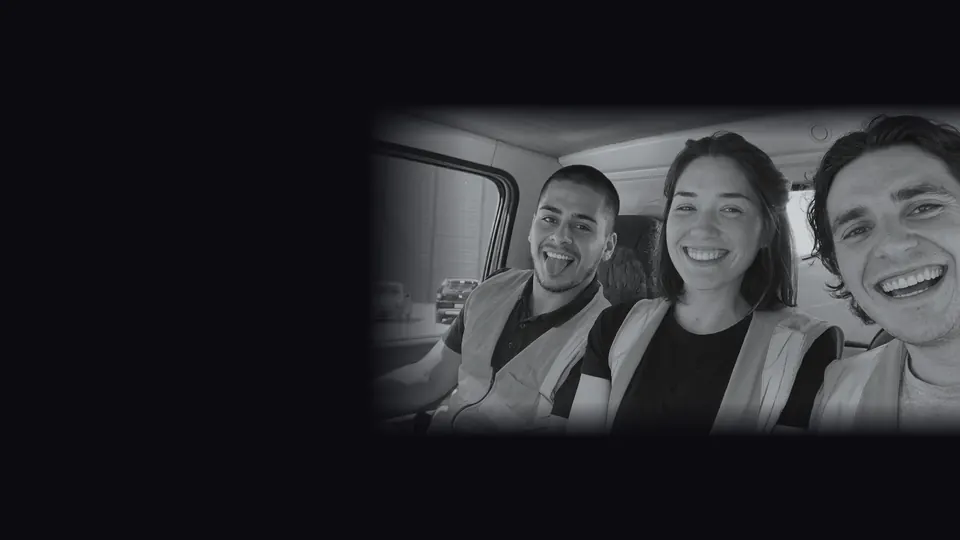
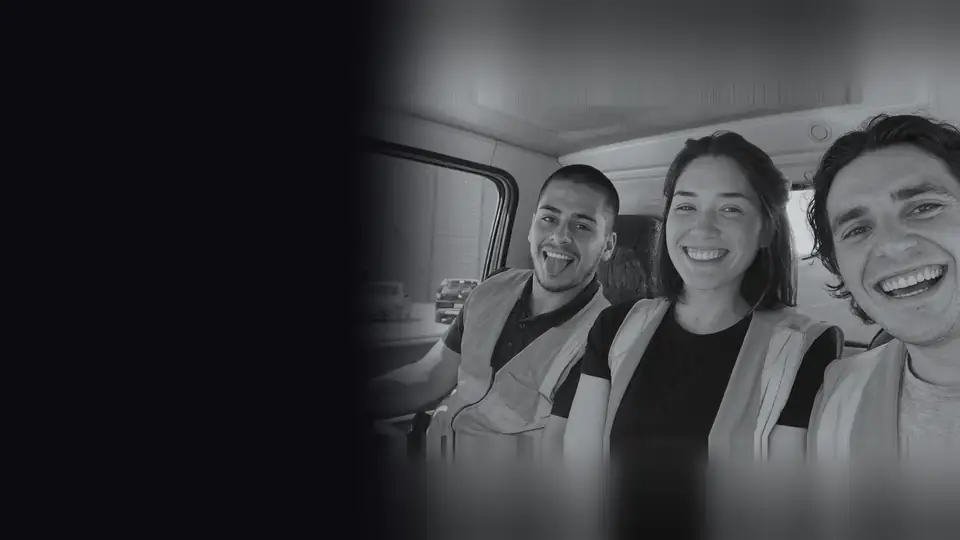
Refine Careers and Contact, add the Who We Are button and fill the team photo

diff --git a/careers.html b/careers.html
@@ -63,6 +63,7 @@ header{position:relative}
 .js .hero-open .hero-fade::before{transform:translateX(100%);transition:transform 1.8s cubic-bezier(.2,.7,.2,1) .1s}
 .js .hero-fade::after{content:"";position:absolute;top:0;bottom:0;left:0;width:calc(100% + 240px);background:linear-gradient(90deg,#0B0B10 calc(100% - 240px),rgba(11,11,16,0) 100%);transform:translateX(var(--ht,-300vw));pointer-events:none}
 }
+@media (max-width:700px){.eb-loc{display:none}}
 </style>
 <script>document.documentElement.classList.add('js')</script>
 </head>
@@ -113,9 +114,9 @@ header{position:relative}
 <picture><source media="(max-width: 899px)" srcset="/hero-tools-mobile-720.webp 720w, /hero-tools-mobile.webp 1200w" sizes="100vw"><img class="hero-img" src="/hero-tools.webp" srcset="/hero-tools-960.webp 960w, /hero-tools.webp 1920w" sizes="100vw" width="1920" height="1080" alt="" fetchpriority="high" decoding="async"></picture>
 <div class="hero-fade" aria-hidden="true"></div>
 <div class="hero-in">
-<p style="margin: 0 0 16px; font-size: 13px; font-weight: 600; letter-spacing: 0.18em; text-transform: uppercase; color: #A78BFA">Careers</p>
-<h1 style="margin: 0; font-family: Oswald, sans-serif; font-size: clamp(38px, 5.4vw, 64px); line-height: 1.08; letter-spacing: 0.02em; font-weight: 400; text-transform: uppercase; text-wrap: balance">Build your career with us.</h1>
-<p style="margin: 24px 0 0; font-size: clamp(17px, 1.9vw, 20px); color: #B4B4C0">We are looking for people with construction experience to join our team.</p>
+<h1 style="margin: 0; font-family: Oswald, sans-serif; font-size: clamp(38px, 5.4vw, 64px); line-height: 1.08; letter-spacing: 0.02em; font-weight: 400; text-transform: uppercase; text-wrap: balance"><span style="display: block; margin: 0 0 16px; font-family: Inter, system-ui, sans-serif; font-size: 13px; line-height: 1.6; font-weight: 600; letter-spacing: 0.18em; color: #A78BFA">Construction jobs<span class="eb-loc"> &middot; British Columbia</span></span>
+Build your career with us.</h1>
+<p style="margin: 24px 0 0; font-size: clamp(17px, 1.9vw, 20px); color: #B4B4C0">Join crews that are planned, supervised and safe, on projects across British&nbsp;Columbia.</p>
 </div>
 </section>
 <script>
@@ -157,12 +158,12 @@ header{position:relative}
 <p style="margin: 0 0 16px; font-size: 13px; font-weight: 600; letter-spacing: 0.18em; text-transform: uppercase; color: #6D28D9">Roles</p>
 <h2 style="margin: 0; max-width: 18em; font-family: Oswald, sans-serif; font-size: clamp(28px, 4vw, 42px); line-height: 1.15; letter-spacing: 0.02em; font-weight: 400; text-transform: uppercase; color: #14141A; text-wrap: balance">Who we hire.</h2>
 <ul style="display: flex; flex-wrap: wrap; gap: 0 32px; margin: 44px 0 0; padding: 0; list-style: none">
-<li style="flex: 1 1 300px; min-width: 0; padding: 22px 0; border-top: 3px solid #14141A; font-family: Oswald, sans-serif; font-size: 22px; line-height: 1.15; letter-spacing: 0.02em; text-transform: uppercase; color: #14141A">Forming carpenters</li>
-<li style="flex: 1 1 300px; min-width: 0; padding: 22px 0; border-top: 3px solid #14141A; font-family: Oswald, sans-serif; font-size: 22px; line-height: 1.15; letter-spacing: 0.02em; text-transform: uppercase; color: #14141A">Concrete finishers</li>
-<li style="flex: 1 1 300px; min-width: 0; padding: 22px 0; border-top: 3px solid #14141A; font-family: Oswald, sans-serif; font-size: 22px; line-height: 1.15; letter-spacing: 0.02em; text-transform: uppercase; color: #14141A">Steel stud framers</li>
-<li style="flex: 1 1 300px; min-width: 0; padding: 22px 0; border-top: 3px solid #14141A; font-family: Oswald, sans-serif; font-size: 22px; line-height: 1.15; letter-spacing: 0.02em; text-transform: uppercase; color: #14141A">Drywallers</li>
-<li style="flex: 1 1 300px; min-width: 0; padding: 22px 0; border-top: 3px solid #14141A; font-family: Oswald, sans-serif; font-size: 22px; line-height: 1.15; letter-spacing: 0.02em; text-transform: uppercase; color: #14141A">Painters</li>
-<li style="flex: 1 1 300px; min-width: 0; padding: 22px 0; border-top: 3px solid #14141A; font-family: Oswald, sans-serif; font-size: 22px; line-height: 1.15; letter-spacing: 0.02em; text-transform: uppercase; color: #14141A">Labourers</li>
+<li style="flex: 1 1 300px; min-width: 0; padding: 22px 0; border-top: 3px solid #14141A; font-family: Oswald, sans-serif; font-size: 22px; line-height: 1.15; letter-spacing: 0.02em; text-transform: uppercase; color: #14141A">Forming carpenters<span style="display: block; margin-top: 8px; font-family: Inter, system-ui, sans-serif; font-size: 16px; line-height: 1.55; letter-spacing: 0; text-transform: none; color: #4B4B57">Wall, column and slab forms, from layout to&nbsp;stripping.</span></li>
+<li style="flex: 1 1 300px; min-width: 0; padding: 22px 0; border-top: 3px solid #14141A; font-family: Oswald, sans-serif; font-size: 22px; line-height: 1.15; letter-spacing: 0.02em; text-transform: uppercase; color: #14141A">Concrete finishers<span style="display: block; margin-top: 8px; font-family: Inter, system-ui, sans-serif; font-size: 16px; line-height: 1.55; letter-spacing: 0; text-transform: none; color: #4B4B57">Placing, screeding and trowelling&nbsp;slabs.</span></li>
+<li style="flex: 1 1 300px; min-width: 0; padding: 22px 0; border-top: 3px solid #14141A; font-family: Oswald, sans-serif; font-size: 22px; line-height: 1.15; letter-spacing: 0.02em; text-transform: uppercase; color: #14141A">Steel stud framers<span style="display: block; margin-top: 8px; font-family: Inter, system-ui, sans-serif; font-size: 16px; line-height: 1.55; letter-spacing: 0; text-transform: none; color: #4B4B57">Steel stud walls, bulkheads and ceilings, laid out to the&nbsp;drawings.</span></li>
+<li style="flex: 1 1 300px; min-width: 0; padding: 22px 0; border-top: 3px solid #14141A; font-family: Oswald, sans-serif; font-size: 22px; line-height: 1.15; letter-spacing: 0.02em; text-transform: uppercase; color: #14141A">Drywallers<span style="display: block; margin-top: 8px; font-family: Inter, system-ui, sans-serif; font-size: 16px; line-height: 1.55; letter-spacing: 0; text-transform: none; color: #4B4B57">Board, tape and finish, ready for&nbsp;paint.</span></li>
+<li style="flex: 1 1 300px; min-width: 0; padding: 22px 0; border-top: 3px solid #14141A; font-family: Oswald, sans-serif; font-size: 22px; line-height: 1.15; letter-spacing: 0.02em; text-transform: uppercase; color: #14141A">Painters<span style="display: block; margin-top: 8px; font-family: Inter, system-ui, sans-serif; font-size: 16px; line-height: 1.55; letter-spacing: 0; text-transform: none; color: #4B4B57">Surface prep, primer and finish&nbsp;coats.</span></li>
+<li style="flex: 1 1 300px; min-width: 0; padding: 22px 0; border-top: 3px solid #14141A; font-family: Oswald, sans-serif; font-size: 22px; line-height: 1.15; letter-spacing: 0.02em; text-transform: uppercase; color: #14141A">Labourers<span style="display: block; margin-top: 8px; font-family: Inter, system-ui, sans-serif; font-size: 16px; line-height: 1.55; letter-spacing: 0; text-transform: none; color: #4B4B57">Material handling, cleanup and support for every&nbsp;crew.</span></li>
 </ul>
 </div>
 </section>
@@ -175,17 +176,17 @@ header{position:relative}
 <li style="flex: 1 1 260px; min-width: 0; padding-top: 20px; border-top: 3px solid #14141A">
 <span style="font-family: Oswald, sans-serif; font-size: 15px; font-weight: 500; letter-spacing: 0.08em; color: #6D28D9">01</span>
 <h3 style="margin: 10px 0 0; font-family: Oswald, sans-serif; font-size: 21px; line-height: 1.15; letter-spacing: 0.02em; font-weight: 400; text-transform: uppercase; color: #14141A">Projects across BC</h3>
-<p style="margin: 10px 0 0; font-size: 16px; color: #4B4B57">Work on residential, commercial and <span style="white-space: nowrap">mixed-use</span> projects across British Columbia.</p>
+<p style="margin: 10px 0 0; font-size: 16px; color: #4B4B57">Residential, commercial and <span style="white-space: nowrap">mixed-use</span> projects, from the concrete structure to the&nbsp;finishes.</p>
 </li>
 <li style="flex: 1 1 260px; min-width: 0; padding-top: 20px; border-top: 3px solid #14141A">
 <span style="font-family: Oswald, sans-serif; font-size: 15px; font-weight: 500; letter-spacing: 0.08em; color: #6D28D9">02</span>
 <h3 style="margin: 10px 0 0; font-family: Oswald, sans-serif; font-size: 21px; line-height: 1.15; letter-spacing: 0.02em; font-weight: 400; text-transform: uppercase; color: #14141A">A foreman on every crew</h3>
-<p style="margin: 10px 0 0; font-size: 16px; color: #4B4B57">A foreman leads every crew and runs a toolbox talk before work starts.</p>
+<p style="margin: 10px 0 0; font-size: 16px; color: #4B4B57">Your foreman plans the day with the crew and runs a toolbox talk before work&nbsp;starts.</p>
 </li>
 <li style="flex: 1 1 260px; min-width: 0; padding-top: 20px; border-top: 3px solid #14141A">
 <span style="font-family: Oswald, sans-serif; font-size: 15px; font-weight: 500; letter-spacing: 0.08em; color: #6D28D9">03</span>
 <h3 style="margin: 10px 0 0; font-family: Oswald, sans-serif; font-size: 21px; line-height: 1.15; letter-spacing: 0.02em; font-weight: 400; text-transform: uppercase; color: #14141A">Safety from day one</h3>
-<p style="margin: 10px 0 0; font-size: 16px; color: #4B4B57">You get a site-specific orientation before you start.</p>
+<p style="margin: 10px 0 0; font-size: 16px; color: #4B4B57">A site orientation before your first shift, and the right to stop any task that is&nbsp;unsafe.</p>
 </li>
 </ol>
 </div>
@@ -194,7 +195,7 @@ header{position:relative}
 <section aria-label="How to apply" style="background: #0B0B10; color: #F5F5F7">
 <div style="max-width: 1120px; margin: 0 auto; padding: 96px 24px; box-sizing: border-box">
 <h2 style="margin: 0; font-family: Oswald, sans-serif; font-size: clamp(32px, 5vw, 60px); line-height: 1.08; letter-spacing: 0.02em; font-weight: 400; text-transform: uppercase; text-wrap: balance">How to apply.</h2>
-<p style="margin: 12px 0 0; font-size: 18px; color: #B4B4C0">Send us your application by email: <a href="mailto:contact@sgvdevelopment.ca" style="color: #A78BFA; text-decoration: none">contact@sgvdevelopment.ca</a></p>
+<p style="margin: 12px 0 0; max-width: 40em; font-size: 18px; color: #B4B4C0">Email your resume to <a href="mailto:contact@sgvdevelopment.ca" style="color: #A78BFA; text-decoration: underline; text-decoration-thickness: 1px; text-underline-offset: 3px">contact@sgvdevelopment.ca</a> with the role, your years of experience, the tickets you hold (for example fall protection, WHMIS or first aid) and where in BC you can work.</p>
 </div>
 </section>
 

diff --git a/contact.html b/contact.html
@@ -63,6 +63,7 @@ header{position:relative}
 .js .hero-open .hero-fade::before{transform:translateX(100%);transition:transform 1.8s cubic-bezier(.2,.7,.2,1) .1s}
 .js .hero-fade::after{content:"";position:absolute;top:0;bottom:0;left:0;width:calc(100% + 240px);background:linear-gradient(90deg,#0B0B10 calc(100% - 240px),rgba(11,11,16,0) 100%);transform:translateX(var(--ht,-300vw));pointer-events:none}
 }
+@media (max-width:700px){.eb-loc{display:none}}
 </style>
 <script>document.documentElement.classList.add('js')</script>
 </head>
@@ -113,8 +114,8 @@ header{position:relative}
 <picture><source media="(max-width: 899px)" srcset="/hero-drawings-mobile-720.webp 720w, /hero-drawings-mobile.webp 1200w" sizes="100vw"><img class="hero-img" src="/hero-drawings.webp" srcset="/hero-drawings-960.webp 960w, /hero-drawings.webp 1920w" sizes="100vw" width="1920" height="1080" alt="" fetchpriority="high" decoding="async"></picture>
 <div class="hero-fade" aria-hidden="true"></div>
 <div class="hero-in">
-<p style="margin: 0 0 16px; font-size: 13px; font-weight: 600; letter-spacing: 0.18em; text-transform: uppercase; color: #A78BFA">Contact</p>
-<h1 style="margin: 0; font-family: Oswald, sans-serif; font-size: clamp(38px, 5.4vw, 64px); line-height: 1.08; letter-spacing: 0.02em; font-weight: 400; text-transform: uppercase; text-wrap: balance">Let's build together.</h1>
+<h1 style="margin: 0; font-family: Oswald, sans-serif; font-size: clamp(38px, 5.4vw, 64px); line-height: 1.08; letter-spacing: 0.02em; font-weight: 400; text-transform: uppercase; text-wrap: balance"><span style="display: block; margin: 0 0 16px; font-family: Inter, system-ui, sans-serif; font-size: 13px; line-height: 1.6; font-weight: 600; letter-spacing: 0.18em; color: #A78BFA">Project enquiries<span class="eb-loc"> &middot; British Columbia</span></span>
+Let's build together.</h1>
 <p style="margin: 24px 0 0; font-size: clamp(17px, 1.9vw, 20px); color: #B4B4C0">Send us your project details, drawings and schedule. We will contact you to book a site&nbsp;visit.</p>
 </div>
 </section>
@@ -212,7 +213,7 @@ header{position:relative}
 <ol style="display: flex; flex-direction: column; gap: 16px; margin: 18px 0 0; padding: 0; list-style: none">
 <li style="display: flex; gap: 12px; font-size: 15px; color: #4B4B57">
 <span aria-hidden="true" style="flex: none; display: flex; align-items: center; justify-content: center; width: 28px; height: 28px; border-radius: 50%; background: #14141A; color: #FFFFFF; font-size: 13px; font-weight: 600">1</span>
-<span style="padding-top: 2px">We review your request and your drawings.</span>
+<span style="padding-top: 2px">We review your request and your drawings, and reply within 24 to 48&nbsp;hours.</span>
 </li>
 <li style="display: flex; gap: 12px; font-size: 15px; color: #4B4B57">
 <span aria-hidden="true" style="flex: none; display: flex; align-items: center; justify-content: center; width: 28px; height: 28px; border-radius: 50%; background: #14141A; color: #FFFFFF; font-size: 13px; font-weight: 600">2</span>

diff --git a/who-we-are.html b/who-we-are.html
@@ -80,6 +80,15 @@ main p{text-wrap:pretty}
 @media (max-width:480px){.roles li{grid-template-columns:1fr}}
 .commit-list{display:grid;grid-template-columns:1fr;gap:24px}
 @media (min-width:900px){.commit-list{grid-template-columns:repeat(3,minmax(0,1fr));gap:32px 48px}}
+.btns{display:flex;flex-wrap:wrap;align-items:center;gap:12px 16px;margin-top:36px}
+a.btn-line{display:inline-flex;align-items:center;justify-content:center;gap:10px;min-height:52px;padding:0 26px;box-sizing:border-box;border:1px solid #3A3A46;border-radius:4px;font-size:16px;font-weight:600;color:#D4D4DC;text-decoration:none;transition:background-color .2s ease,border-color .2s ease,color .2s ease}
+a.btn-line svg{transition:transform .2s ease}
+a.btn-line--main{border-color:#A78BFA;color:#A78BFA}
+@media (hover:hover){a.btn-line:hover{border-color:#6B6B78;color:#F5F5F7}a.btn-line--main:hover{background:rgba(167,139,250,.12);border-color:#C4B5FD;color:#C4B5FD}a.btn-line:hover svg{transform:translateX(4px)}}
+a.btn-line:focus-visible{outline:2px solid #A78BFA;outline-offset:3px}
+a.btn-line:focus-visible svg{transform:translateX(4px)}
+@media (prefers-reduced-motion:reduce){a.btn-line,a.btn-line svg{transition:none}}
+@media (max-width:480px){.btns > a{flex:1 1 100%}}
 </style>
 <script>document.documentElement.classList.add('js')</script>
 </head>
@@ -219,9 +228,11 @@ The team behind the build.</h1>
 <p style="margin: 10px 0 0; font-size: 16px; color: #B4B4C0">Lump sum or unit rates. Changes are priced and approved in writing before the work goes ahead.</p>
 </li>
 </ul>
-<a href="/contact.html#enquiry" class="arrow-link" style="display: inline-flex; align-items: center; gap: 10px; min-height: 44px; margin-top: 40px; font-size: 16px; font-weight: 600; color: #A78BFA">Request a site visit
+<div class="btns">
+<a href="/contact.html#enquiry" class="btn-line btn-line--main">Request a site visit
 <svg width="18" height="18" viewBox="0 0 18 18" fill="none" aria-hidden="true" style="flex: none"><path d="M3 9 H15 M10 4 L15 9 L10 14" stroke="currentColor" stroke-width="1.8" stroke-linecap="round" stroke-linejoin="round"></path></svg>
 </a>
+</div>
 </div>
 </section>
 
